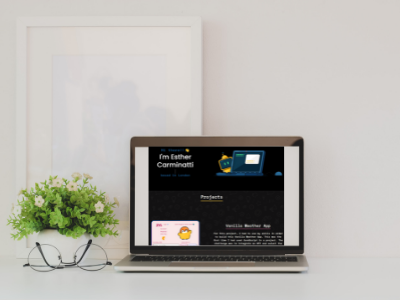
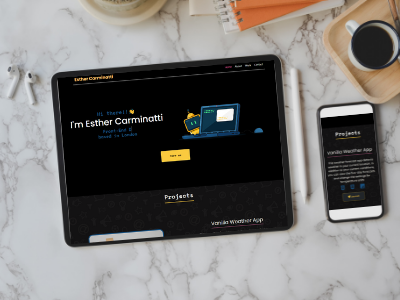
Modify design

diff --git a/index.html b/index.html
@@ -86,7 +86,12 @@
                 <p class="main-title">
                     Vanilla Weather App
                 </p>
-                <p class="paragraph-description">For this project, I had to use my skills in order to build this Vanilla Weather App. This was the first time I had used JavaScript in a project. The challenge was to integrate an API and select the correct information. It has a little surprise if you select a city below/above 15°C. Check it out!🥶🥵</p>
+                <p class="paragraph-description">This weather forecast app detects weather in your current location. In addition to your current conditions, you can view the five-day forecasts and change the settings for temperature units</p>
+                <div class="software-icons d-flex justify-content-center">
+                    <i class="fab fa-html5"></i>
+                    <i class="fab fa-css3-alt"></i>
+                    <i class="fab fa-js-square"></i>
+                </div>
                 <a href="" class="btn btn-dark launch" title="launch weather app"><i class="fas fa-rocket"></i> Launch</a>
                 </div>
             </div>
@@ -100,7 +105,13 @@
                 <p class="main-title">
                     Personal Portfolio
                 </p>
-                <p class="paragraph-description">This was the first time I made a personal portfolio online. This time the challenge was to make it responsive. I had used grids in order to keep everything in place. I hope you like it!😍</p>
+                <p class="paragraph-description">This was the first time I made a personal portfolio online. Its design is inspired from a minimalistic design combined with elements of the Japanese pop culture</p>
+                <div class="software-icons d-flex justify-content-center">
+                    <i class="fab fa-html5"></i>
+                    <i class="fab fa-css3-alt"></i>
+                    <i class="fab fa-js-square"></i>
+                    <i class="fab fa-bootstrap"></i>
+                </div>
                 <a href="" class="btn btn-dark launch" title="launch personal website"><i class="fas fa-rocket"></i> Launch</a>
                  </div>
             </div>

diff --git a/styles/porfolio.css b/styles/porfolio.css
@@ -53,7 +53,7 @@ nav li.active a {
 .top-page {
   background: black;
   color: #19517f;
-  padding: 160px 20px;
+  padding: 100px 20px;
   font-family: "Space Mono", monospace;
   text-align: center;
 }
@@ -87,11 +87,16 @@ h2 {
 }
 /* Middle */
 .middle-page {
-  background-image: url("/images/doodles-background.png");
-  padding-bottom: 120px;
-  background-position: top center;
-  background-repeat: repeat;
-  background-size: cover;
+  padding-bottom: 150px;
+  background: rgb(0, 0, 0);
+  background: linear-gradient(
+    0deg,
+    rgba(0, 0, 0, 1) 0%,
+    rgba(43, 53, 54, 1) 15%,
+    rgba(43, 53, 54, 1) 77%,
+    rgba(0, 0, 0, 1) 100%
+  );
+
   font-family: "Space Mono", monospace;
   color: #e0e0df;
 }
@@ -166,7 +171,7 @@ h2 {
   padding-top: 10px;
 }
 .paragraph-description {
-  padding: 20px 0;
+  padding: 20px 0 0 0;
   font-size: 18px;
   text-align: center;
 }
@@ -178,6 +183,14 @@ h2 {
   padding-right: 60px;
   font-family: "Poppins", sans-serif;
 }
+.software-icons i {
+  margin: 0 20px;
+  color: #19517f;
+  padding-bottom: 20px;
+  font-size: 35px;
+  transition: all 100ms ease-in-out;
+}
+
 /* About Page */
 .esther {
   height: 70%;
@@ -188,7 +201,7 @@ h2 {
 }
 /* Footer */
 footer {
-  margin: 60px 0;
+  margin: 40px 0 60px 0;
 }
 .email-address {
   text-decoration: none;
@@ -259,7 +272,7 @@ footer h2 {
   }
   nav {
     margin: 0;
-    padding: 20px 10px;
+    padding: 10px 10px;
     justify-content: center;
   }
 }
